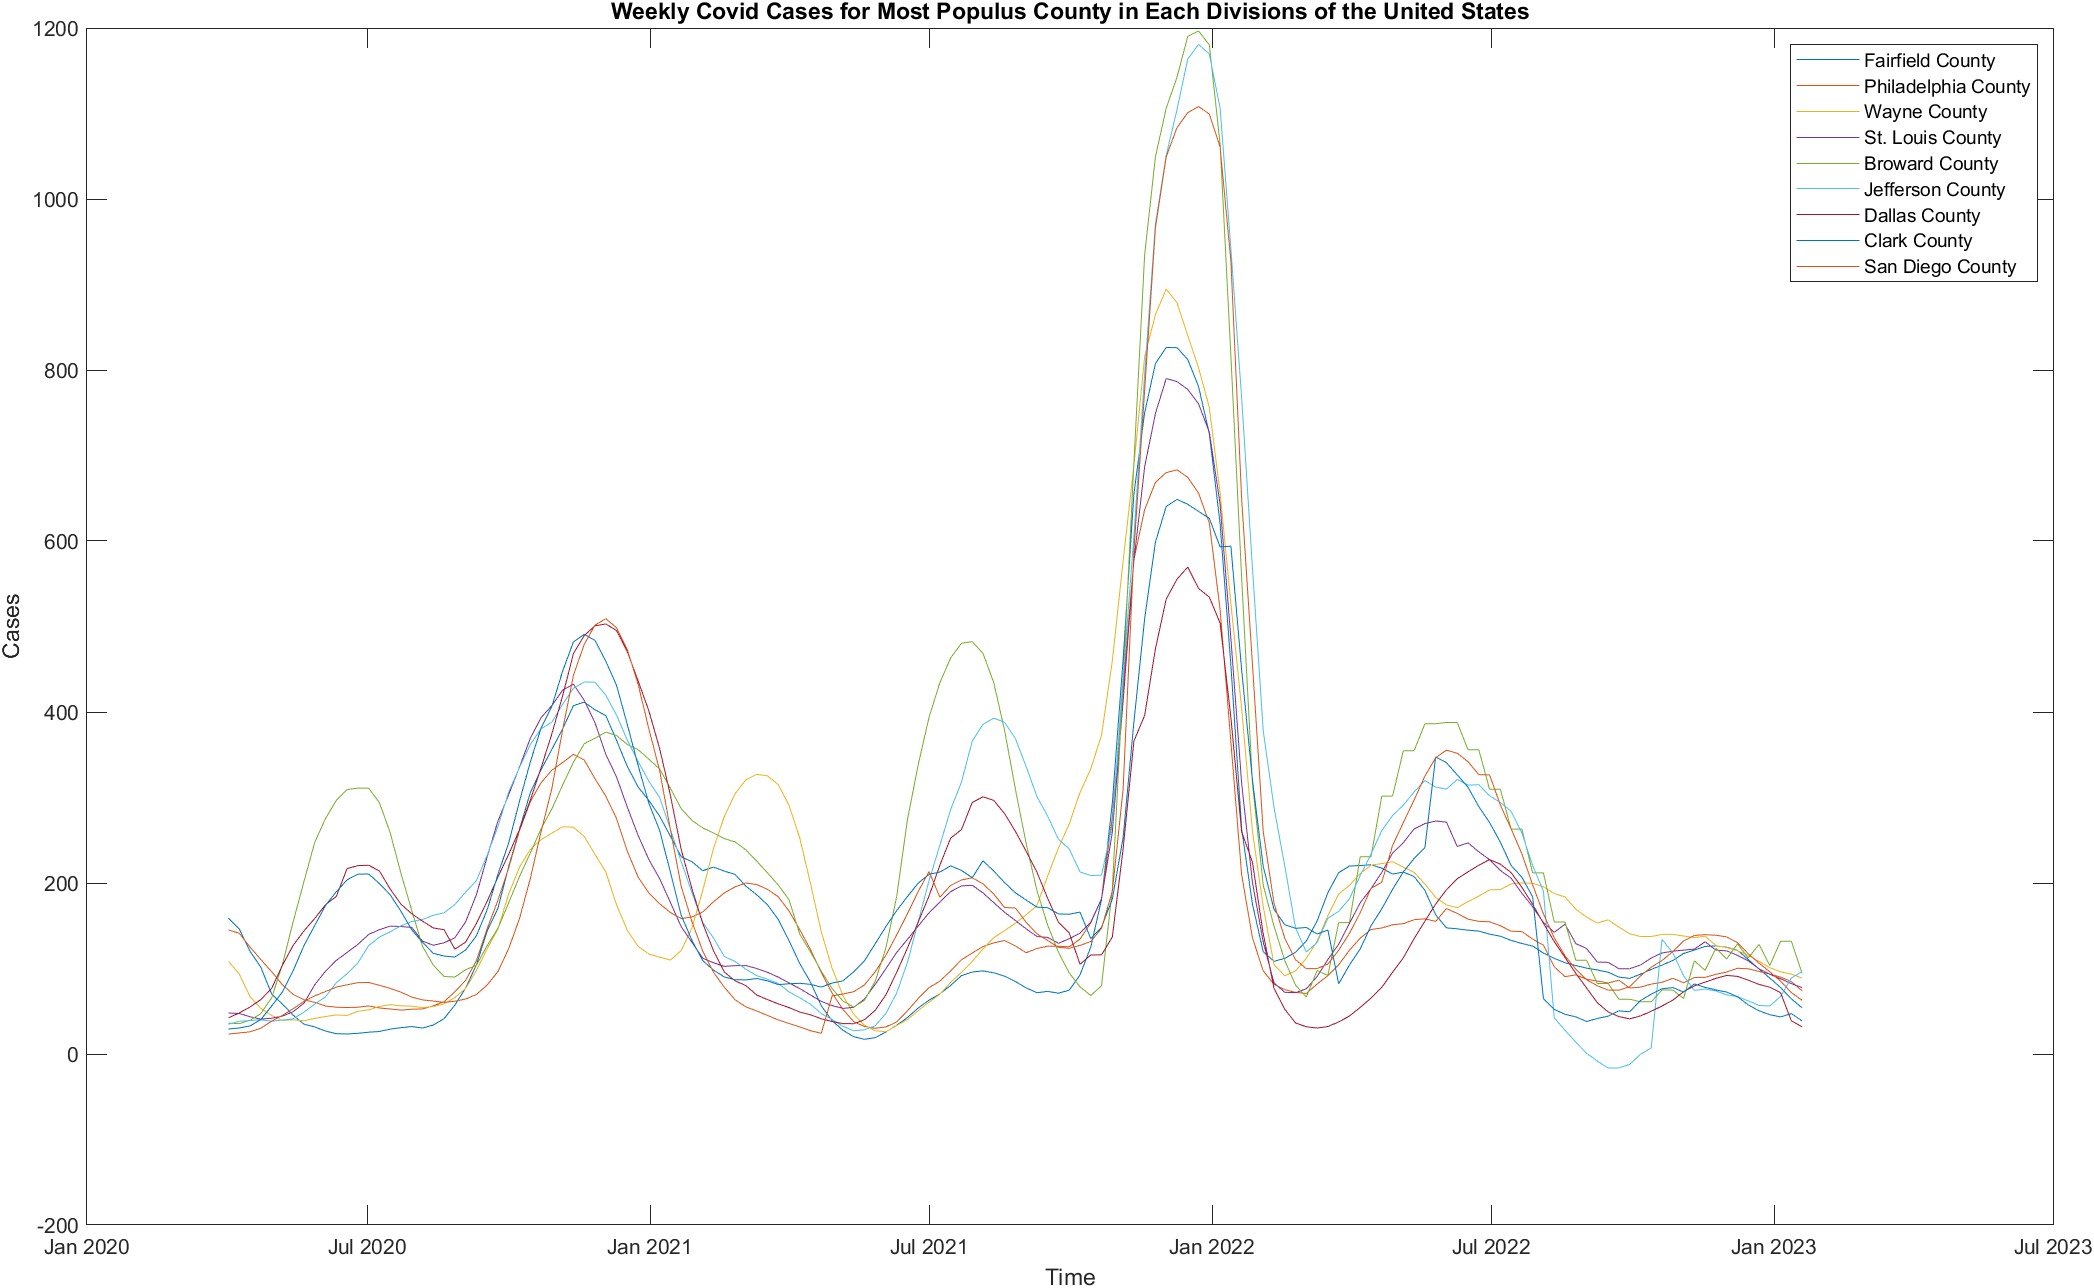
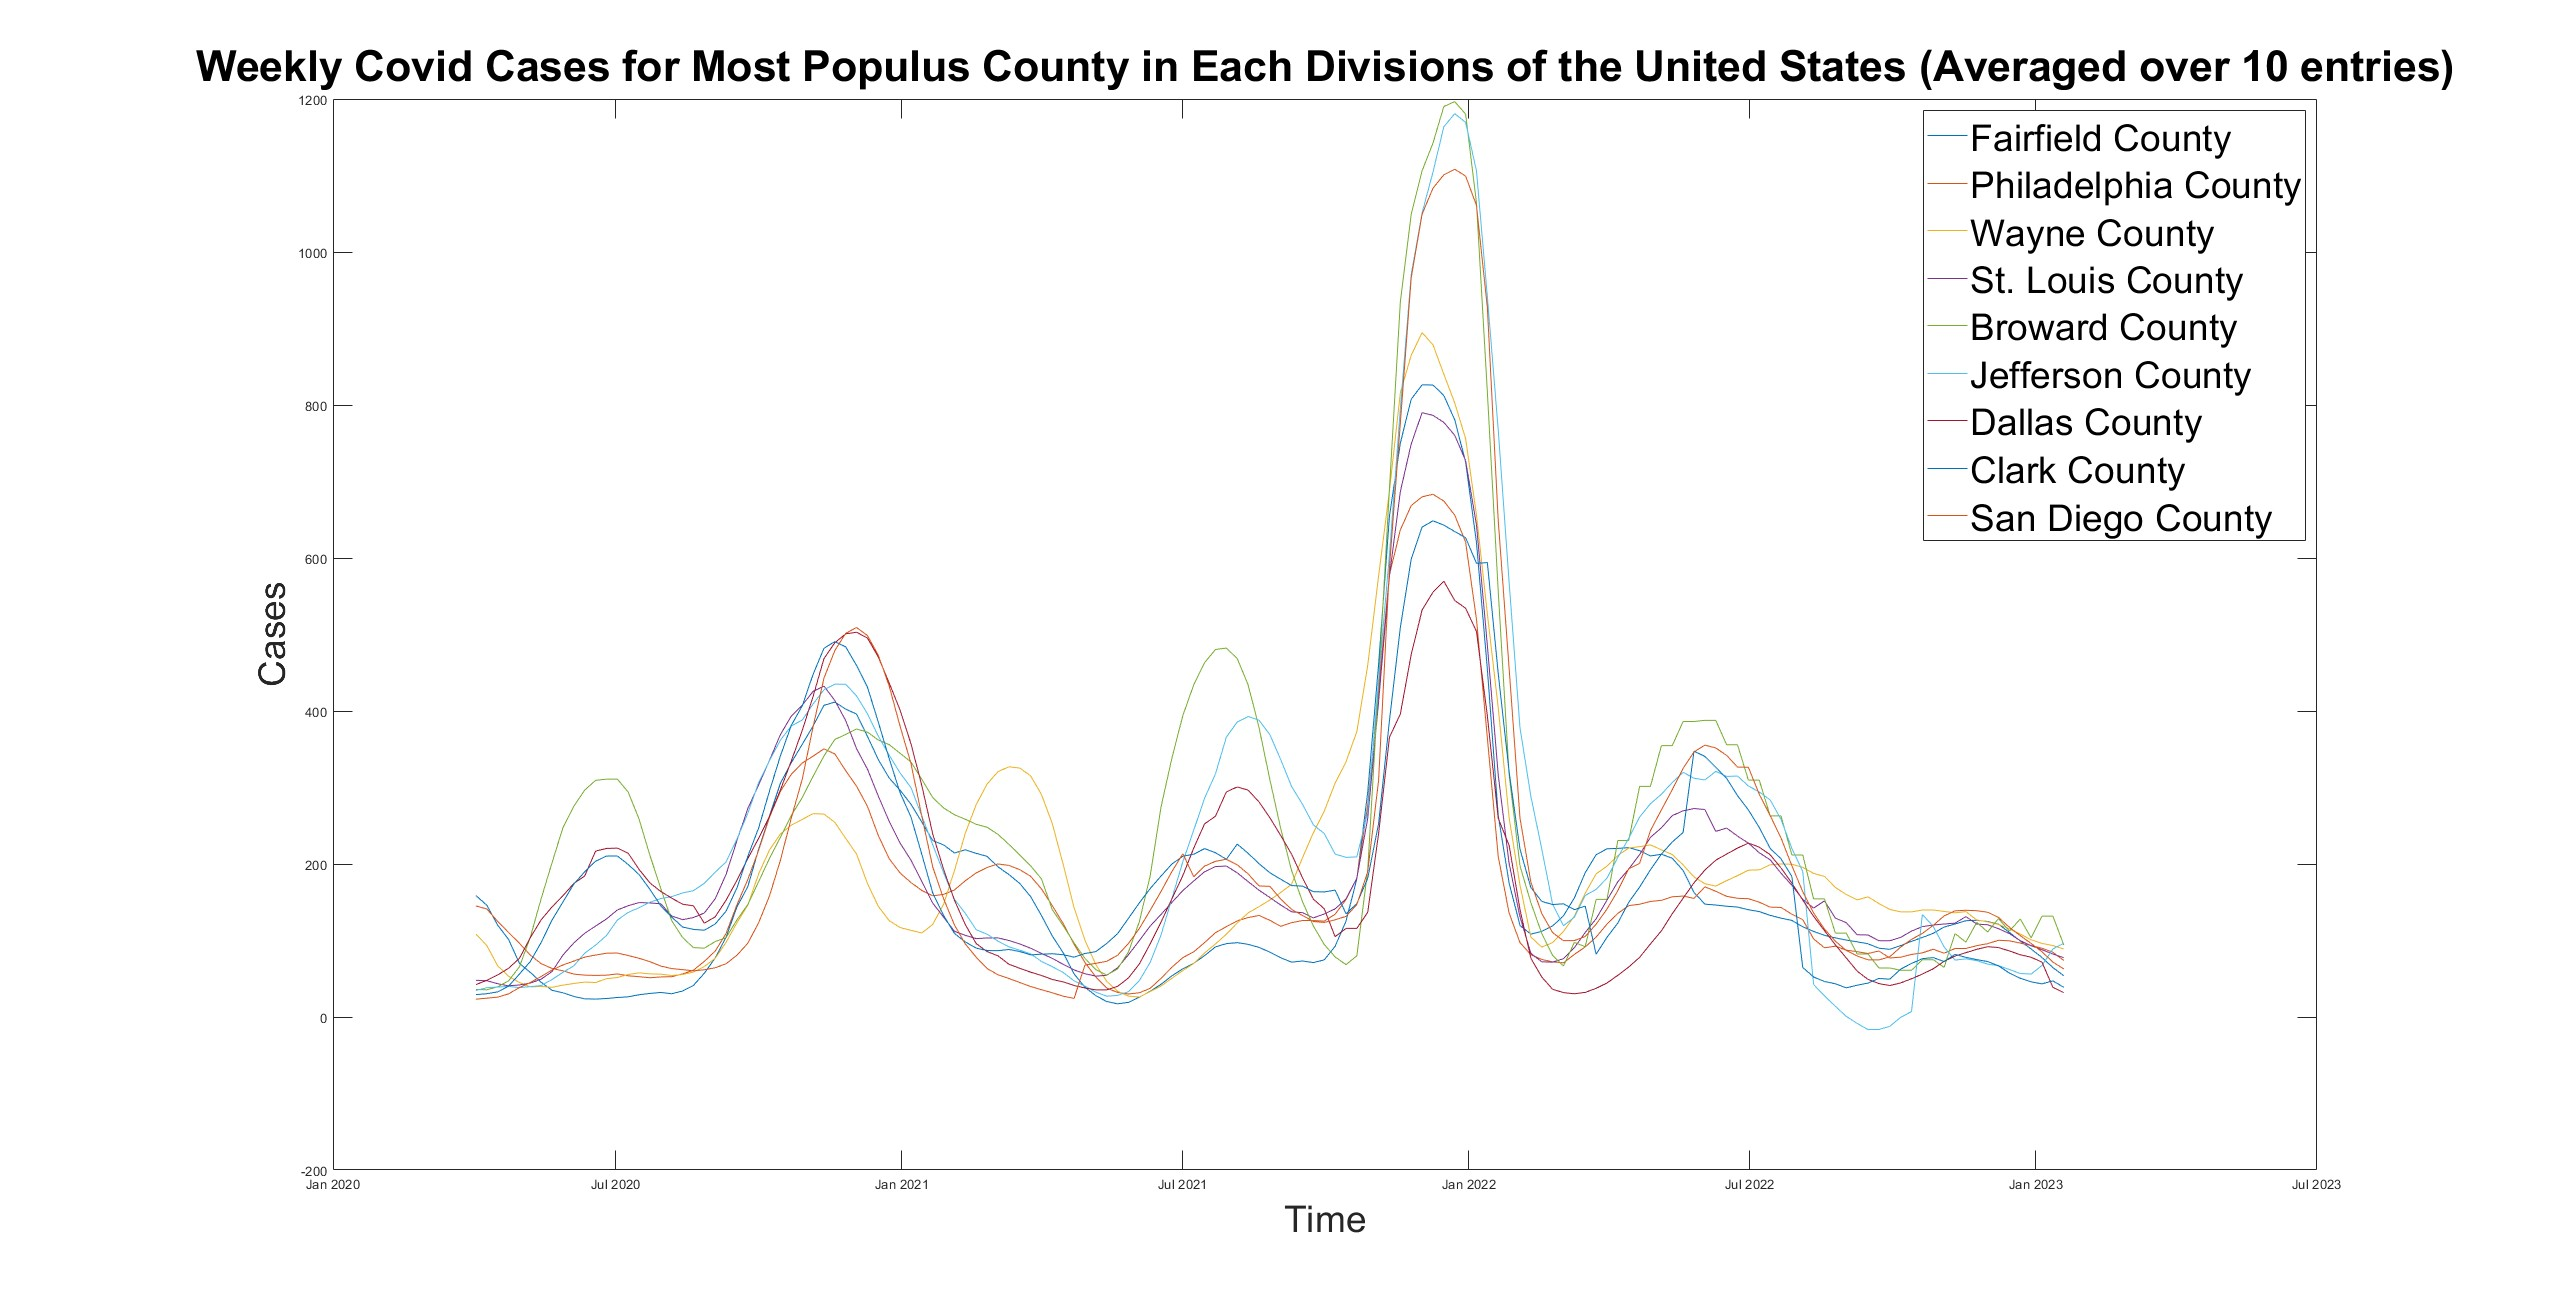
Changed figure titles

diff --git a/caseStudy1.m b/caseStudy1.m
@@ -20,12 +20,15 @@ end
 %Manually Checking
 %sortCNTY = sortrows(CNTY_CENSUS, 6, "descend");
 
+A = generateBlockAverageMatrix(156, 10);
+maxPopulationCovidCases = (A * maxPopulationCovidCases')';
+
 % Plot Data
-plot(dates, maxPopulationCovidCases');
-title("Weekly Covid Cases for Most Populus County in Each Divisions of the United States")
-xlabel("Time")
-ylabel("Cases")
-legend(maxPopulationCntys);
+plot(dates(1:end-9), maxPopulationCovidCases');
+title("Weekly Covid Cases for Most Populus County in Each Divisions of the United States (Averaged over 10 entries)", 'FontSize', 32)
+xlabel("Time", 'FontSize', 28)
+ylabel("Cases", 'FontSize', 28)
+legend(maxPopulationCntys, 'FontSize',28);
 
 % 3.1.2 Linearly Independent?
 
